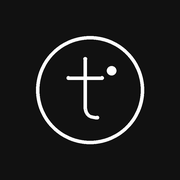
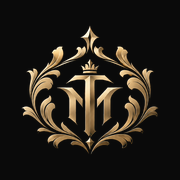
Updated project

Changed region(s): [[0.1111, 0.1389, 0.8889, 0.8611]]

diff --git a/app/(store)/gifts/page.tsx b/app/(store)/gifts/page.tsx
@@ -1,0 +1,74 @@
+import type { Metadata } from "next";
+import Link from "next/link";
+import { Gift } from "lucide-react";
+import { ProductCard } from "@/components/product/product-card";
+import { EmptyState } from "@/components/ui/empty-state";
+import { Reveal } from "@/components/motion";
+import { ButtonLink } from "@/components/ui/button";
+import { getCollectionBySlug, getSettings, getShopProducts, type ShopParams } from "@/lib/data";
+import { whatsappLink } from "@/lib/whatsapp";
+import { cn, formatINR } from "@/lib/utils";
+
+export const metadata: Metadata = {
+  title: "Gift Collection",
+  description: "Thoughtful, ready-to-give pieces — tees, hoodies, accessories and more. Shop gifts by budget.",
+  alternates: { canonical: "/gifts" },
+};
+
+const BUDGETS = [1000, 2000, 3000];
+
+export default async function GiftsPage({ searchParams }: { searchParams: Promise<{ max?: string }> }) {
+  const { max } = await searchParams;
+  const maxPrice = BUDGETS.includes(Number(max)) ? String(Number(max)) : undefined;
+  const base: ShopParams = maxPrice ? { max: maxPrice } : {};
+
+  // 1) the "Gift Collection" collection if you've made one (Admin → Collections, slug: gift-collection)
+  // 2) otherwise products tagged "gift"; 3) otherwise our best sellers
+  const [col, settings] = await Promise.all([getCollectionBySlug("gift-collection"), getSettings()]);
+  let products = col?.products?.length ? (await getShopProducts({ ...base, collection: "gift-collection", sort: "best-selling" })).products : [];
+  if (!products.length) products = (await getShopProducts({ ...base, q: "gift" })).products;
+  if (!products.length) products = (await getShopProducts({ ...base, sort: "best-selling" })).products;
+
+  const wa = whatsappLink(settings.whatsapp, "Hi! I'd like help choosing a gift / a gift card.");
+  return (
+    <div className="pb-10">
+      <section className="bg-[#0d0d0c] text-white">
+        <div className="container-wide py-16 text-center md:py-24">
+          <Reveal><p className="mb-4 text-[11px] font-medium uppercase tracking-[0.35em] text-[#c9a24a]">Gift Collection</p></Reveal>
+          <Reveal delay={0.1}><h1 className="display text-5xl md:text-8xl">Give a little <em className="font-light">style</em></h1></Reveal>
+          <Reveal delay={0.2}><p className="mx-auto mt-5 max-w-md font-display text-xl italic text-white/70 md:text-2xl">Thoughtful pieces, ready to give.</p></Reveal>
+        </div>
+      </section>
+
+      <div className="container-wide pt-10">
+        <div className="mb-10 flex flex-wrap items-center gap-2" role="group" aria-label="Filter gifts by budget">
+          <span className="mr-2 text-[11px] uppercase tracking-[0.2em] text-muted">Budget</span>
+          <Link href="/gifts" aria-current={!maxPrice} className={cn("border px-4 py-2 text-xs", !maxPrice ? "border-ink bg-ink text-paper" : "border-line hover:border-ink")}>All gifts</Link>
+          {BUDGETS.map((b) => (
+            <Link key={b} href={`/gifts?max=${b}`} aria-current={maxPrice === String(b)} className={cn("border px-4 py-2 text-xs", maxPrice === String(b) ? "border-ink bg-ink text-paper" : "border-line hover:border-ink")}>Under {formatINR(b)}</Link>
+          ))}
+        </div>
+
+        {products.length === 0 ? (
+          <EmptyState icon={Gift} title="No gifts in this budget yet" text="Try a different budget or browse everything we have." ctaText="Shop all" ctaHref="/shop" />
+        ) : (
+          <ul className="grid grid-cols-2 gap-x-3 gap-y-12 md:grid-cols-3 md:gap-x-5 lg:grid-cols-4">
+            {products.map((p, i) => <li key={p._id}><ProductCard product={p} priority={i < 4} /></li>)}
+          </ul>
+        )}
+
+        <section className="mt-20 grid items-center gap-6 border border-line p-8 md:grid-cols-[1fr_auto] md:p-12" aria-labelledby="giftcard-h">
+          <div>
+            <p className="eyebrow mb-2">Can't decide?</p>
+            <h2 id="giftcard-h" className="display text-4xl md:text-5xl">Send a gift card</h2>
+            <p className="mt-3 max-w-lg text-sm text-muted">Gift cards are issued by our team and can be redeemed at checkout. Message us with the amount and who it's for, and we'll send you the code.</p>
+          </div>
+          <div className="flex flex-wrap gap-3">
+            {wa && <a href={wa} target="_blank" rel="noopener noreferrer" className="inline-flex h-12 items-center bg-ink px-7 text-[11px] font-medium uppercase tracking-[0.2em] text-paper">Ask on WhatsApp</a>}
+            <ButtonLink href="/contact" variant="outline">Contact us</ButtonLink>
+          </div>
+        </section>
+      </div>
+    </div>
+  );
+}

diff --git a/components/logo.tsx b/components/logo.tsx
@@ -1,40 +1,47 @@
 import { cn } from "@/lib/utils";
 
 /**
- * tee-mantraa mark: a lowercase "t" (the first letter of the name) in a fine circle, with a small dot —
- * a quiet nod to the "bindu" in a mantra. Drawn with currentColor so it follows the theme.
+ * tee-mantraa logo (gold crest + wordmark), cut out from the brand artwork with a transparent background.
+ *  - "deep" gold reads well on light surfaces, "bright" gold on dark ones.
+ *  - tone="auto" follows the light/dark theme; use tone="bright" over photos/dark heroes and tone="deep" on always-light areas (admin).
  */
-export function LogoMark({ className }: { className?: string }) {
+export type LogoTone = "auto" | "bright" | "deep";
+
+const FILES = {
+  crest: { bright: "/brand/crest-gold.png", deep: "/brand/crest-deep.png", w: 721, h: 560 },
+  wordmark: { bright: "/brand/wordmark-gold.png", deep: "/brand/wordmark-deep.png", w: 1100, h: 122 },
+} as const;
+
+function Art({ kind, tone, className, alt = "" }: { kind: keyof typeof FILES; tone: LogoTone; className?: string; alt?: string }) {
+  const f = FILES[kind];
+  const common = { width: f.w, height: f.h, decoding: "async" as const, draggable: false };
+  if (tone === "deep") return <img src={f.deep} alt={alt} className={cn("w-auto select-none", className)} {...common} />;
+  if (tone === "bright") return <img src={f.bright} alt={alt} className={cn("w-auto select-none", className)} {...common} />;
   return (
-    <svg viewBox="0 0 48 48" fill="none" stroke="currentColor" strokeWidth="1.6" strokeLinecap="round" strokeLinejoin="round" className={className} aria-hidden>
-      <circle cx="24" cy="24" r="22.5" />
-      <path d="M22 11 V31 Q22 35.5 27 35.5" />
-      <path d="M15 19 H29" />
-      <circle cx="33" cy="16" r="1.7" fill="currentColor" stroke="none" />
-    </svg>
+    <>
+      <img src={f.deep} alt={alt} className={cn("w-auto select-none dark:hidden", className)} {...common} />
+      <img src={f.bright} alt="" aria-hidden className={cn("hidden w-auto select-none dark:block", className)} {...common} />
+    </>
   );
 }
 
-/** Wordmark built from the name itself: "tee" in italic, a quiet hyphen, "mantraa" in a heavier upright. */
-export function Wordmark({ name = "tee-mantraa", className }: { name?: string; className?: string }) {
-  const i = name.indexOf("-");
-  if (i < 1) return <span className={cn("font-display font-medium", className)}>{name}</span>;
-  return (
-    <span className={cn("font-display leading-none", className)}>
-      <span className="font-normal italic">{name.slice(0, i)}</span>
-      <span className="mx-[0.06em] font-light opacity-50">-</span>
-      <span className="font-semibold tracking-[0.01em]">{name.slice(i + 1)}</span>
-    </span>
-  );
+/** Crest only (404 page, loading screens, favicons in UI). */
+export function CrestImage({ tone = "auto", className, alt = "" }: { tone?: LogoTone; className?: string; alt?: string }) {
+  return <Art kind="crest" tone={tone} className={className} alt={alt} />;
 }
 
-export function Logo({ name = "tee-mantraa", size = "md", className, showMark = true }: { name?: string; size?: "sm" | "md" | "lg"; className?: string; showMark?: boolean }) {
-  const t = { sm: "text-xl", md: "text-[26px] md:text-[30px]", lg: "text-4xl" }[size];
-  const m = { sm: "h-7 w-7", md: "h-8 w-8 md:h-9 md:w-9", lg: "h-11 w-11" }[size];
+const SIZES = {
+  sm: { crest: "h-7", word: "h-[11px]" },
+  md: { crest: "h-[30px] sm:h-9 lg:h-10", word: "h-3 sm:h-4 lg:h-[18px]" },
+  lg: { crest: "h-14", word: "h-6" },
+} as const;
+
+export function Logo({ name = "tee-mantraa", size = "md", tone = "auto", showWordmark = true, className }: { name?: string; size?: "sm" | "md" | "lg"; tone?: LogoTone; showWordmark?: boolean; className?: string }) {
+  const s = SIZES[size];
   return (
-    <span className={cn("inline-flex items-center gap-2.5", className)}>
-      {showMark && <LogoMark className={cn("shrink-0", m)} />}
-      <Wordmark name={name} className={t} />
+    <span className={cn("inline-flex items-center gap-2 sm:gap-3", className)}>
+      <Art kind="crest" tone={tone} className={s.crest} alt={showWordmark ? "" : name} />
+      {showWordmark && <Art kind="wordmark" tone={tone} className={s.word} alt={name} />}
     </span>
   );
 }

diff --git a/components/layout/navbar.tsx b/components/layout/navbar.tsx
@@ -19,6 +19,7 @@ export const NAV_LINKS = [
   { href: "/shop?gender=men", label: "Men" },
   { href: "/shop?gender=women", label: "Women" },
   { href: "/collections", label: "Collections" },
+  { href: "/gifts", label: "Gift Collection" },
   { href: "/shop?sale=1", label: "Sale" },
 ];
 
@@ -65,10 +66,10 @@ export function Navbar() {
 
         <nav aria-label="Main" className="container-wide flex h-16 items-center justify-between md:h-[68px]">
           <Link href="/" aria-label={`${site.brandName} home`} className="flex items-center">
-            <Logo name={site.brandName} />
+            <Logo name={site.brandName} tone={transparent ? "bright" : "auto"} />
           </Link>
 
-          <ul className="absolute left-1/2 hidden -translate-x-1/2 items-center gap-5 lg:flex xl:gap-10">
+          <ul className="absolute left-1/2 hidden -translate-x-1/2 items-center gap-6 xl:flex 2xl:gap-9">
             {NAV_LINKS.map((l) => (
               <li key={l.href}>
                 <Link href={l.href} className="link-underline text-[10px] font-medium uppercase tracking-[0.18em] xl:text-[11px] xl:tracking-[0.22em]">{l.label}</Link>
@@ -76,13 +77,14 @@ export function Navbar() {
             ))}
           </ul>
 
+          {/* Order: Search · Wishlist · Cart · Profile · Mode (· Menu on smaller screens) */}
           <div className="flex items-center gap-0.5">
-            <ThemeToggle className={cn(iconBtn, "hidden sm:flex")} />
             <button className={iconBtn} aria-label="Search" onClick={() => setSearchOpen(true)}><Search className="h-[18px] w-[18px]" strokeWidth={1.5} /></button>
-            <Link href={status === "authenticated" ? "/account" : "/login"} className={cn(iconBtn, "hidden lg:flex")} aria-label="Account"><User className="h-[18px] w-[18px]" strokeWidth={1.5} /></Link>
             <Link href="/wishlist" className={cn(iconBtn, "hidden lg:flex")} aria-label={`Wishlist, ${wish} items`}><Heart className="h-[18px] w-[18px]" strokeWidth={1.5} /><Badge n={wish} /></Link>
             <button className={iconBtn} aria-label={`Open cart, ${count} items`} onClick={() => setCartOpen(true)}><ShoppingBag className="h-[18px] w-[18px]" strokeWidth={1.5} /><Badge n={count} /></button>
-            <button className={cn(iconBtn, "lg:hidden")} aria-label="Open menu" aria-expanded={menuOpen} onClick={() => setMenuOpen(true)}><Menu className="h-5 w-5" strokeWidth={1.5} /></button>
+            <Link href={status === "authenticated" ? "/account" : "/login"} className={cn(iconBtn, "hidden lg:flex")} aria-label="Profile"><User className="h-[18px] w-[18px]" strokeWidth={1.5} /></Link>
+            <ThemeToggle className={cn(iconBtn, "hidden lg:flex")} />
+            <button className={cn(iconBtn, "xl:hidden")} aria-label="Open menu" aria-expanded={menuOpen} onClick={() => setMenuOpen(true)}><Menu className="h-5 w-5" strokeWidth={1.5} /></button>
           </div>
         </nav>
       </header>

diff --git a/components/admin/admin-shell.tsx b/components/admin/admin-shell.tsx
@@ -59,7 +59,7 @@ export function AdminShell({ children, user, brand, role }: { children: React.Re
   return (
     <div data-admin className="min-h-screen bg-[#fafafa] font-sans text-sm text-ink">
       <aside className="fixed inset-y-0 left-0 hidden w-60 flex-col border-r border-line bg-paper lg:flex">
-        <div className="border-b border-line px-6 py-5"><Logo name={brand} size="sm" /><p className="text-[10px] uppercase tracking-[0.25em] text-muted">Admin</p></div>
+        <div className="border-b border-line px-6 py-5"><Logo name={brand} size="sm" tone="deep" /><p className="text-[10px] uppercase tracking-[0.25em] text-muted">Admin</p></div>
         {nav}
         <div className="border-t border-line p-4">
           <p className="truncate text-xs font-medium">{user.name}</p><p className="truncate text-xs text-muted">{user.email} · {role.replace("_", " ")}</p>
@@ -68,7 +68,7 @@ export function AdminShell({ children, user, brand, role }: { children: React.Re
       </aside>
 
       <header className="sticky top-0 z-30 flex h-14 items-center justify-between border-b border-line bg-paper px-4 lg:hidden">
-        <span className="flex items-center gap-2"><Logo name={brand} size="sm" /><span className="text-[10px] tracking-widest text-muted">ADMIN</span></span>
+        <span className="flex items-center gap-2"><Logo name={brand} size="sm" tone="deep" /><span className="text-[10px] tracking-widest text-muted">ADMIN</span></span>
         <button aria-label={open ? "Close menu" : "Open menu"} aria-expanded={open} onClick={() => setOpen(!open)} className="p-2">{open ? <X className="h-5 w-5" /> : <Menu className="h-5 w-5" />}</button>
       </header>
       {open && <div className="fixed inset-0 top-14 z-20 flex flex-col bg-paper lg:hidden">{nav}</div>}

diff --git a/scripts/seed.ts b/scripts/seed.ts
@@ -87,7 +87,7 @@ async function seedDemo() {
   ]);
 
   // ---- settings & homepage CMS ----
-  await SiteSettings.findOneAndUpdate({ key: "site" }, { key: "site", brandName: "tee-mantraa", tagline: "Defined by Style.", contactEmail: "hello@tee-mantraa.example" }, { upsert: true });
+  await SiteSettings.findOneAndUpdate({ key: "site" }, { key: "site", brandName: "tee-mantraa", tagline: "Define Your Style.", contactEmail: "hello@tee-mantraa.example" }, { upsert: true });
   await HomepageSection.insertMany(Object.entries(HOMEPAGE_DEFAULTS).map(([key, v]) => ({ key, enabled: v.enabled, data: v.data })));
 
   // ---- categories ----
@@ -107,7 +107,7 @@ async function seedDemo() {
       images: [`/images/products/${p.slug}-1.svg`, `/images/products/${p.slug}-2.svg`],
       colors: p.colors.map((n: string) => ({ name: n, hex: COLOR_HEX[n] })), sizes: p.sizes,
       stock, lowStockThreshold: 5, material: p.material, fit: p.fit, gender: p.gender,
-      tags: [p.category, p.type, p.gender, ...p.name.toLowerCase().split(" ")],
+      tags: [p.category, p.type, p.gender, ...p.name.toLowerCase().split(" "), ...(p.collections.includes("gift-collection") ? ["gift", "gifting"] : [])],
       featured: p.flags.includes("B"), bestSeller: p.flags.includes("B"), newArrival: p.flags.includes("N"), published: true,
       sold: 0,
     };

diff --git a/app/(store)/page.tsx b/app/(store)/page.tsx
@@ -12,6 +12,8 @@ import { NewsletterSection } from "@/components/home/newsletter-section";
 import { getInstagramPosts } from "@/lib/instagram";
 import { getActiveBanner, getBestSellers, getCategories, getHomepage, getNewArrivals, getTestimonials } from "@/lib/data";
 
+const SHOW_MARQUEE = false;
+
 export default async function HomePage() {
   const [home, categories, testimonials, banner, instagram] = await Promise.all([getHomepage(), getCategories(), getTestimonials(), getActiveBanner(), getInstagramPosts(8)]);
   const [newArrivals, bestSellers] = await Promise.all([
@@ -23,7 +25,8 @@ export default async function HomePage() {
   return (
     <>
       {on("hero") && <Hero data={home.hero.data as any} />}
-      {on("marquee") && <Marquee items={home.marquee.data.items || []} />}
+      {/* Scrolling statement band is switched off for now. To bring it back set SHOW_MARQUEE to true. */}
+      {SHOW_MARQUEE && on("marquee") && <Marquee items={home.marquee.data.items || []} />}
       {on("categories") && <CategorySection data={home.categories.data} categories={categories} />}
       {on("newArrivals") && <ProductSection data={home.newArrivals.data} products={newArrivals} href="/shop?new=1" />}
       {on("editorial") && <EditorialSection data={home.editorial.data as any} />}

diff --git a/components/layout/footer.tsx b/components/layout/footer.tsx
@@ -6,7 +6,7 @@ import type { SiteSettingsDTO } from "@/types";
 import { Logo } from "@/components/logo";
 
 const COLS = [
-  { title: "Shop", links: [["New Arrivals", "/shop?new=1"], ["Men", "/shop?gender=men"], ["Women", "/shop?gender=women"], ["Shirts", "/shop?category=shirts"], ["T-Shirts", "/shop?category=t-shirts"], ["Hoodies", "/shop?category=hoodies"], ["Jeans", "/shop?category=jeans"], ["Sale", "/shop?sale=1"]] },
+  { title: "Shop", links: [["New Arrivals", "/shop?new=1"], ["Men", "/shop?gender=men"], ["Women", "/shop?gender=women"], ["Shirts", "/shop?category=shirts"], ["T-Shirts", "/shop?category=t-shirts"], ["Hoodies", "/shop?category=hoodies"], ["Jeans", "/shop?category=jeans"], ["Gift Collection", "/gifts"], ["Sale", "/shop?sale=1"]] },
   { title: "Help", links: [["Contact", "/contact"], ["Shipping", "/shipping"], ["Returns", "/returns"], ["FAQ", "/faq"], ["Size Guide", "/size-guide"], ["Compare", "/compare"]] },
   { title: "Company", links: [["About", "/about"], ["Our Story", "/our-story"], ["Careers", "/careers"], ["Journal", "/journal"], ["Lookbook", "/lookbook"]] },
   { title: "Legal", links: [["Privacy Policy", "/privacy-policy"], ["Terms", "/terms"], ["Refund Policy", "/refund-policy"]] },

diff --git a/components/auth/auth-shell.tsx b/components/auth/auth-shell.tsx
@@ -4,11 +4,8 @@ import { Img } from "@/components/ui/img";
 export function AuthShell({ title, subtitle, children, footer }: { title: string; subtitle?: string; children: React.ReactNode; footer?: React.ReactNode }) {
   return (
     <div className="grid min-h-[80vh] lg:grid-cols-2">
-      <div className="relative hidden lg:block">
-        <Img src="/images/editorial/story.svg" alt="" sizes="50vw" className="absolute inset-0 h-full w-full" />
-        <div className="absolute inset-0 flex items-end bg-gradient-to-t from-black/50 to-transparent p-14 text-white">
-          <p className="display max-w-md text-6xl">Defined by <em className="font-light">Style.</em></p>
-        </div>
+      <div className="relative hidden bg-[#0a0a0a] lg:block">
+        <Img src="/brand/logo-art.jpg" alt="tee-mantraa" sizes="50vw" className="absolute inset-0 h-full w-full" imgClassName="object-contain" />
       </div>
       <div className="flex items-center justify-center px-5 py-16">
         <div className="w-full max-w-md">

diff --git a/lib/emails.ts b/lib/emails.ts
@@ -8,7 +8,7 @@ const esc = (s: unknown) => String(s ?? "").replace(/[&<>"']/g, (c) => ({ "&": "
 async function layout(title: string, body: string) {
   const s = await getSettings();
   return `<div style="font-family:Georgia,'Times New Roman',serif;max-width:560px;margin:0 auto;padding:32px 24px;color:#111">
-  <p style="font-size:22px;letter-spacing:.02em;margin:0 0 24px">${esc(s.brandName)}</p>
+  <img src="${appUrl()}/brand/wordmark-deep.png" alt="${esc(s.brandName)}" height="26" style="height:26px;width:auto;margin:0 0 24px;display:block"/>
   <h1 style="font-weight:400;font-size:28px;margin:0 0 16px">${esc(title)}</h1>${body}
   <hr style="border:none;border-top:1px solid #e8e8e8;margin:32px 0 16px"/>
   <p style="font-size:12px;color:#777;font-family:Arial,sans-serif">${esc(s.brandName)} · ${esc(s.contactEmail)}</p></div>`;

diff --git a/app/sitemap.ts b/app/sitemap.ts
@@ -14,6 +14,7 @@ export default async function sitemap(): Promise<MetadataRoute.Sitemap> {
     { url: `${base}/collections`, changeFrequency: "weekly", priority: 0.7 },
     ...categories.map((c) => ({ url: `${base}/category/${c.slug}`, changeFrequency: "weekly" as const, priority: 0.8 })),
     ...collections.map((c) => ({ url: `${base}/collections/${c.slug}`, changeFrequency: "weekly" as const, priority: 0.7 })),
+    { url: `${base}/gifts`, changeFrequency: "weekly" as const, priority: 0.7 },
     { url: `${base}/journal`, changeFrequency: "weekly" as const, priority: 0.6 },
     { url: `${base}/lookbook`, changeFrequency: "weekly" as const, priority: 0.6 },
     ...posts.map((p: any) => ({ url: `${base}/journal/${p.slug}`, lastModified: p.updatedAt, changeFrequency: "monthly" as const, priority: 0.5 })),

diff --git a/app/(store)/order/[id]/invoice/page.tsx b/app/(store)/order/[id]/invoice/page.tsx
@@ -35,6 +35,7 @@ export default async function InvoicePage({ params }: { params: Promise<{ id: st
       <div className="border border-line bg-paper p-8 md:p-12 print:border-0 print:p-0">
         <div className="flex flex-wrap items-start justify-between gap-6 border-b border-line pb-6">
           <div>
+            <img src="/brand/crest-deep.png" alt="" className="mb-3 h-14 w-auto" width={721} height={560} />
             <p className="font-display text-3xl">{seller}</p>
             {s.businessAddress && <p className="mt-1 max-w-xs whitespace-pre-line text-muted">{s.businessAddress}</p>}
             {s.gstin && <p className="mt-1">GSTIN: <strong>{s.gstin}</strong></p>}

diff --git a/app/(store)/product/[slug]/page.tsx b/app/(store)/product/[slug]/page.tsx
@@ -3,7 +3,8 @@ import Link from "next/link";
 import { notFound } from "next/navigation";
 import { Gallery } from "@/components/product/gallery";
 import { ProductDetails } from "@/components/product/product-details";
-import { ProductCard, categoryName } from "@/components/product/product-card";
+import { ProductCard } from "@/components/product/product-card";
+import { categoryName } from "@/lib/product-utils";
 import { ReviewsSection } from "@/components/product/reviews-section";
 import { getCompleteTheLook, getProductBySlug, getRelatedProducts, getReviews } from "@/lib/data";
 import { RecentlyViewed } from "@/components/product/recently-viewed";
